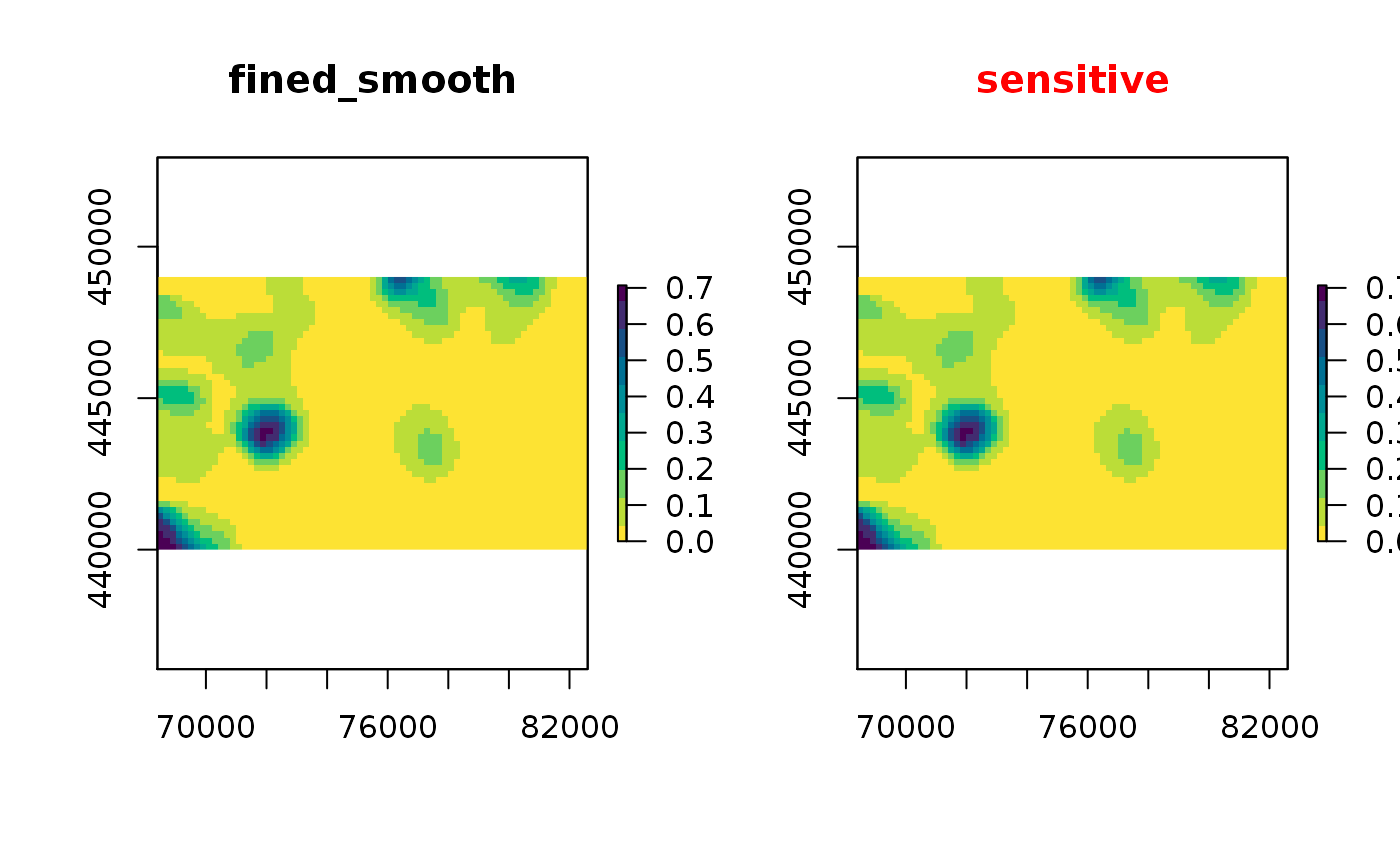
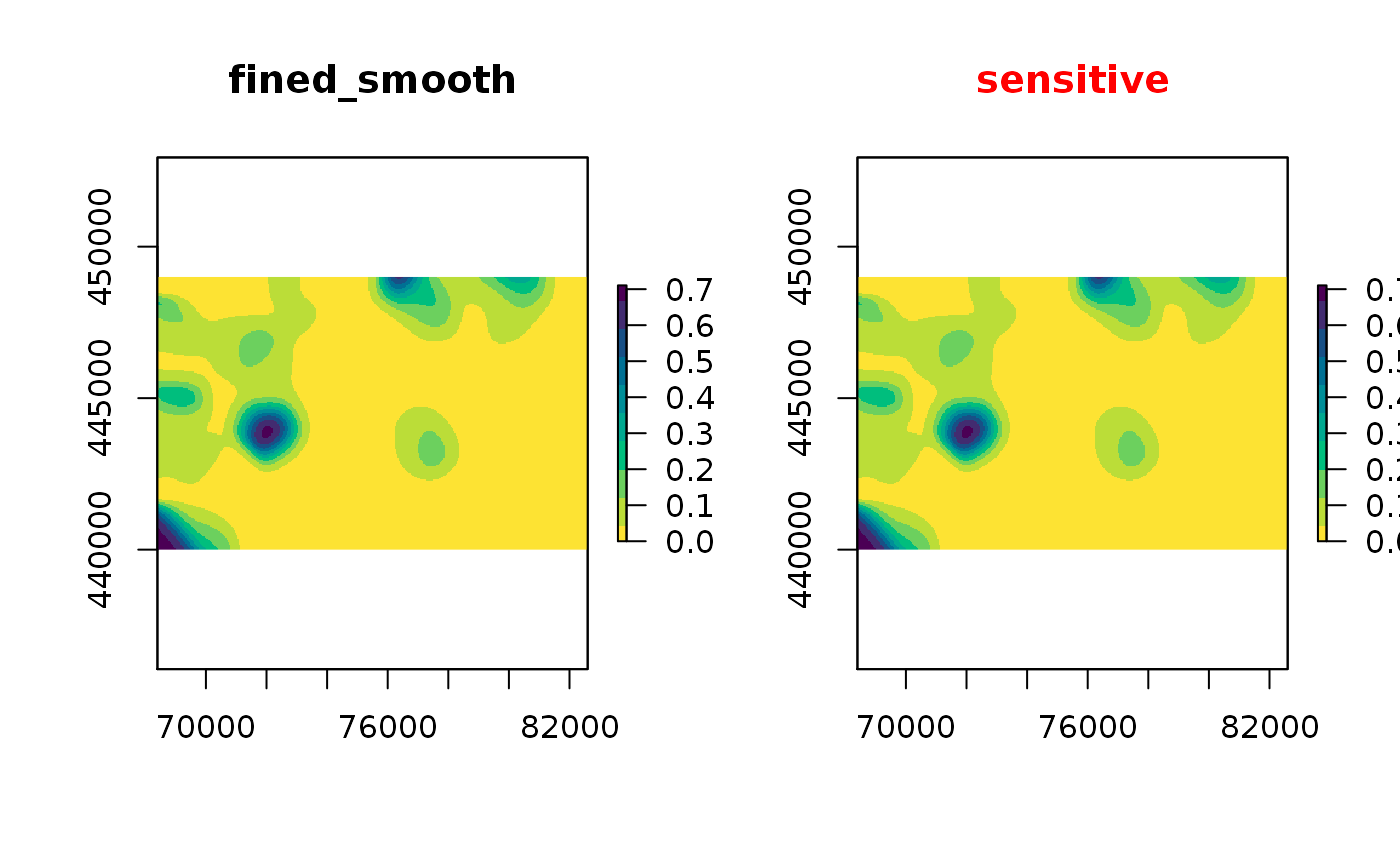
Built site for sdcSpatial: 0.5.0.9000@978270f

diff --git a/articles/privacy_protecting_maps.html b/articles/privacy_protecting_maps.html
@@ -31,7 +31,7 @@
       </button>
       <span class="navbar-brand">
         <a class="navbar-link" href="../index.html">sdcSpatial</a>
-        <span class="version label label-default" data-toggle="tooltip" data-placement="bottom" title="Released version">0.2.0.9000</span>
+        <span class="version label label-default" data-toggle="tooltip" data-placement="bottom" title="Released version">0.5.0.9000</span>
       </span>
     </div>
 
@@ -204,7 +204,8 @@
 <span class="kw">production_smoothed</span> <span class="op">&lt;-</span> <span class="fu"><a href="../reference/protect_smooth.html">protect_smooth</a></span>(<span class="kw">production</span>, bw = <span class="fl">500</span>)
 <span class="fu"><a href="https://rdrr.io/pkg/raster/man/plot.html">plot</a></span>(<span class="kw">production_smoothed</span>)
 </pre></div>
-<p><img src="privacy_protecting_maps_files/figure-html/unnamed-chunk-10-1.png" width="100%"> In this case smoothing reduced the number of sensitive locations drastically! Let us remove the remaining sensitive cells</p>
+<p><img src="privacy_protecting_maps_files/figure-html/unnamed-chunk-10-1.png" width="100%"> In this case smoothing reduced the number of sensitive locations drastically!</p>
+<p>Let us remove the remaining sensitive cells</p>
 <div class="sourceCode" id="cb12"><pre class="downlit">
 <span class="kw">production_safe</span> <span class="op">&lt;-</span> <span class="fu"><a href="../reference/remove_sensitive.html">remove_sensitive</a></span>(<span class="kw">production_smoothed</span>)
 <span class="fu"><a href="../reference/sensitivity_score.html">sensitivity_score</a></span>(<span class="kw">production_safe</span>) <span class="co"># check, double check</span>
@@ -254,7 +255,7 @@
 <p>The method has the advantage of locally selecting the necessary resolution to suppress sensitive values, while the <code>protect_smooth</code> method uses a fixed bandwidth.</p>
 <p>The protection result is blocky in comparison with the smoothing method, but safer if you look at the sensitive cells in high fined areas.</p>
 <div class="sourceCode" id="cb18"><pre class="downlit">
-<span class="kw">fined_smooth</span> <span class="op">&lt;-</span> <span class="fu"><a href="../reference/protect_smooth.html">protect_smooth</a></span>(<span class="kw">fined</span>, bw = <span class="fl">500</span>)
+<span class="kw">fined_smooth</span> <span class="op">&lt;-</span> <span class="fu"><a href="../reference/protect_smooth.html">protect_smooth</a></span>(<span class="kw">fined</span>, bw = <span class="fl">500</span>, keep_resolution=<span class="fl">FALSE</span>)
 <span class="fu"><a href="https://rdrr.io/pkg/raster/man/plot.html">plot</a></span>(<span class="kw">fined_smooth</span>, col = <span class="kw">col</span>)
 </pre></div>
 <p><img src="privacy_protecting_maps_files/figure-html/unnamed-chunk-16-1.png" width="100%"></p>

diff --git a/reference/protect_smooth.html b/reference/protect_smooth.html
@@ -73,7 +73,7 @@ making the values less localized." />
       </button>
       <span class="navbar-brand">
         <a class="navbar-link" href="../index.html">sdcSpatial</a>
-        <span class="version label label-default" data-toggle="tooltip" data-placement="bottom" title="Released version">0.2.0.9000</span>
+        <span class="version label label-default" data-toggle="tooltip" data-placement="bottom" title="Released version">0.5.0.9000</span>
       </span>
     </div>
 
@@ -207,12 +207,12 @@ on Privacy in Statistical Databases (pp. 347-359). Springer, Cham.</p>
 <span class='fu'><a href='https://rdrr.io/pkg/raster/man/cellStats.html'>cellStats</a></span>(<span class='kw'>sensitive</span>, <span class='kw'>mean</span>)
 </div><div class='output co'>#&gt; [1] 0.6328234</div><div class='input'>
 <span class='co'># let's smooth to reduce the sensitivity</span>
-<span class='kw'>smoothed</span> <span class='op'>&lt;-</span> <span class='fu'>protect_smooth</span>(<span class='kw'>production</span>, bw = <span class='fl'>400</span>)
+<span class='kw'>smoothed</span> <span class='op'>&lt;-</span> <span class='fu'>protect_smooth</span>(<span class='kw'>production</span>, bw = <span class='fl'>400</span>, keep_resolution=<span class='fl'>FALSE</span>)
 <span class='fu'><a href='https://rdrr.io/pkg/raster/man/plot.html'>plot</a></span>(<span class='kw'>smoothed</span>)
 </div><div class='img'><img src='protect_smooth-3.png' alt='' width='700' height='433' /></div><div class='input'>
 <span class='co'># what is the sensitivy fraction?</span>
 <span class='fu'><a href='sensitivity_score.html'>sensitivity_score</a></span>(<span class='kw'>smoothed</span>)
-</div><div class='output co'>#&gt; [1] 0.006885759</div><div class='input'>
+</div><div class='output co'>#&gt; [1] 0.007962441</div><div class='input'>
 <span class='co'># let's remove the sensitive data.</span>
 <span class='kw'>smoothed_safe</span> <span class='op'>&lt;-</span> <span class='fu'><a href='remove_sensitive.html'>remove_sensitive</a></span>(<span class='kw'>smoothed</span>, min_count = <span class='fl'>3</span>)
 <span class='fu'><a href='https://rdrr.io/pkg/raster/man/plot.html'>plot</a></span>(<span class='kw'>smoothed_safe</span>)

diff --git a/reference/sdc_raster.html b/reference/sdc_raster.html
@@ -74,7 +74,7 @@ the sensitivity to privacy disclosure for each location." />
       </button>
       <span class="navbar-brand">
         <a class="navbar-link" href="../index.html">sdcSpatial</a>
-        <span class="version label label-default" data-toggle="tooltip" data-placement="bottom" title="Released version">0.2.0.9000</span>
+        <span class="version label label-default" data-toggle="tooltip" data-placement="bottom" title="Released version">0.5.0.9000</span>
       </span>
     </div>
 
@@ -193,10 +193,9 @@ observations is considered sensitived.</p></td>
     <h2 class="hasAnchor" id="value"><a class="anchor" href="#value"></a>Value</h2>
 
     <p>object of <code>class</code> "sdc_raster":</p><ul>
-<li><p><code>$value</code>: <code><a href='https://rdrr.io/pkg/raster/man/brick.html'>raster::brick()</a></code> object with differenct layers e.g. <code>count</code>, <code>sum</code>, <code>mean</code>.</p></li>
+<li><p><code>$value</code>: <code><a href='https://rdrr.io/pkg/raster/man/brick.html'>raster::brick()</a></code> object with different layers e.g. <code>count</code>, <code>sum</code>, <code>mean</code>, <code>scale</code>.</p></li>
 <li><p><code>$max_risk</code>: see above.</p></li>
-<li><p><code>$min_count</code>: see above.</p></li>
-<li><p><code>$scale</code>: used together with <code>min_count</code> to determine sensitivity: result
+<li><p><code>$min_count</code>: see above.
 of protection operation <code><a href='protect_smooth.html'>protect_smooth()</a></code> or <code><a href='protect_quadtree.html'>protect_quadtree()</a></code>.</p></li>
 <li><p><code>$type</code>: data type of <code>variable</code>, either <code>numeric</code> or <code>logical</code></p></li>
 <li><p><code>$risk_type</code>, "external", "internal" or "discrete" (see <code><a href='disclosure_risk.html'>disclosure_risk()</a></code>)</p></li>

diff --git a/reference/remove_sensitive.html b/reference/remove_sensitive.html
@@ -73,7 +73,7 @@ The sensitive cells, as found by is_sensitive() are set to NA." />
       </button>
       <span class="navbar-brand">
         <a class="navbar-link" href="../index.html">sdcSpatial</a>
-        <span class="version label label-default" data-toggle="tooltip" data-placement="bottom" title="Released version">0.2.0.9000</span>
+        <span class="version label label-default" data-toggle="tooltip" data-placement="bottom" title="Released version">0.5.0.9000</span>
       </span>
     </div>
 
@@ -196,15 +196,14 @@ experienced <code>raster</code> users as well as sdc users.</p>
 </div><div class='output co'>#&gt; logical sdc_raster object: 
 #&gt;    resolution: 200 200 ,  max_risk: 0.95 , min_count: 10 
 #&gt;    mean sensitivity score [0,1]:  0.4572576</div><div class='input'><span class='kw'>unemployed</span><span class='op'>$</span><span class='kw'>value</span>
-</div><div class='output co'>#&gt; class      : RasterBrick 
-#&gt; dimensions : 62, 61, 3782, 3  (nrow, ncol, ncell, nlayers)
+</div><div class='output co'>#&gt; class      : RasterStack 
+#&gt; dimensions : 62, 61, 3782, 4  (nrow, ncol, ncell, nlayers)
 #&gt; resolution : 200, 200  (x, y)
 #&gt; extent     : 149400, 161600, 457800, 470200  (xmin, xmax, ymin, ymax)
 #&gt; crs        : NA 
-#&gt; source     : memory
-#&gt; names      : sum, count, mean 
-#&gt; min values :   0,     1,    0 
-#&gt; max values : 195,   329,    1 
+#&gt; names      : sum, count, mean, scale 
+#&gt; min values :   0,     1,    0,     1 
+#&gt; max values : 195,   329,    1,     1 
 #&gt; </div></pre>
   </div>
   <div class="col-md-3 hidden-xs hidden-sm" id="pkgdown-sidebar">

diff --git a/news/index.html b/news/index.html
@@ -71,7 +71,7 @@
       </button>
       <span class="navbar-brand">
         <a class="navbar-link" href="../index.html">sdcSpatial</a>
-        <span class="version label label-default" data-toggle="tooltip" data-placement="bottom" title="Released version">0.2.0.9000</span>
+        <span class="version label label-default" data-toggle="tooltip" data-placement="bottom" title="Released version">0.5.0.9000</span>
       </span>
     </div>
 
@@ -126,6 +126,16 @@
       <small>Source: <a href='https://github.com/edwindj/sdcSpatial/blob/master/NEWS.md'><code>NEWS.md</code></a></small>
     </div>
 
+    <div id="version-0-5-0" class="section level1">
+<h1 class="page-header" data-toc-text="0.5.0">
+<a href="#version-0-5-0" class="anchor"></a>version 0.5.0<small> Unreleased </small>
+</h1>
+<ul>
+<li>Added a <code>protect_neighborhood</code> function</li>
+<li>Fixed a bug in <code>protect_smooth</code>, it now can return a higher resolution version <code>keep_resolution=FALSE</code>.</li>
+<li>internal improvements with $scale.</li>
+</ul>
+</div>
     <div id="sdcspatial-0-2-0-9000" class="section level1">
 <h1 class="page-header" data-toc-text="0.2.0.9000">
 <a href="#sdcspatial-0-2-0-9000" class="anchor"></a>sdcSpatial 0.2.0.9000<small> Unreleased </small>

diff --git a/reference/sdcSpatial-package.html b/reference/sdcSpatial-package.html
@@ -74,7 +74,7 @@ revealing values at certain locations." />
       </button>
       <span class="navbar-brand">
         <a class="navbar-link" href="../index.html">sdcSpatial</a>
-        <span class="version label label-default" data-toggle="tooltip" data-placement="bottom" title="Released version">0.2.0.9000</span>
+        <span class="version label label-default" data-toggle="tooltip" data-placement="bottom" title="Released version">0.5.0.9000</span>
       </span>
     </div>
 
@@ -198,6 +198,7 @@ a structure in quadtrees, NTTS 2017</p>
 </ul>
 
 <p>Other contributors:</p><ul>
+<li><p>Douwe Hut [contributor]</p></li>
 <li><p>Sapphire Han [contributor]</p></li>
 </ul>
 

diff --git a/reference/plot_sensitive.html b/reference/plot_sensitive.html
@@ -73,7 +73,7 @@ plotted in red. The sensitive cells are determined using is_sensitive." />
       </button>
       <span class="navbar-brand">
         <a class="navbar-link" href="../index.html">sdcSpatial</a>
-        <span class="version label label-default" data-toggle="tooltip" data-placement="bottom" title="Released version">0.2.0.9000</span>
+        <span class="version label label-default" data-toggle="tooltip" data-placement="bottom" title="Released version">0.5.0.9000</span>
       </span>
     </div>
 

diff --git a/reference/sensitivity_score.html b/reference/sensitivity_score.html
@@ -73,7 +73,7 @@ that are considered sensitive according to the used disclosure_risk" />
       </button>
       <span class="navbar-brand">
         <a class="navbar-link" href="../index.html">sdcSpatial</a>
-        <span class="version label label-default" data-toggle="tooltip" data-placement="bottom" title="Released version">0.2.0.9000</span>
+        <span class="version label label-default" data-toggle="tooltip" data-placement="bottom" title="Released version">0.5.0.9000</span>
       </span>
     </div>
 

diff --git a/reference/dwellings.html b/reference/dwellings.html
@@ -74,7 +74,7 @@ The locations are realistic, but the associated data is simulated." />
       </button>
       <span class="navbar-brand">
         <a class="navbar-link" href="../index.html">sdcSpatial</a>
-        <span class="version label label-default" data-toggle="tooltip" data-placement="bottom" title="Released version">0.2.0.9000</span>
+        <span class="version label label-default" data-toggle="tooltip" data-placement="bottom" title="Released version">0.5.0.9000</span>
       </span>
     </div>
 

diff --git a/reference/enterprises.html b/reference/enterprises.html
@@ -74,7 +74,7 @@ The locations are realistic, but the associated data is simulated." />
       </button>
       <span class="navbar-brand">
         <a class="navbar-link" href="../index.html">sdcSpatial</a>
-        <span class="version label label-default" data-toggle="tooltip" data-placement="bottom" title="Released version">0.2.0.9000</span>
+        <span class="version label label-default" data-toggle="tooltip" data-placement="bottom" title="Released version">0.5.0.9000</span>
       </span>
     </div>
 

diff --git a/reference/protect_quadtree.html b/reference/protect_quadtree.html
@@ -74,7 +74,7 @@ left or when the maximum zoom levels has been reached." />
       </button>
       <span class="navbar-brand">
         <a class="navbar-link" href="../index.html">sdcSpatial</a>
-        <span class="version label label-default" data-toggle="tooltip" data-placement="bottom" title="Released version">0.2.0.9000</span>
+        <span class="version label label-default" data-toggle="tooltip" data-placement="bottom" title="Released version">0.5.0.9000</span>
       </span>
     </div>
 

diff --git a/reference/is_sensitive_at.html b/reference/is_sensitive_at.html
@@ -74,7 +74,7 @@ was created with (see example)." />
       </button>
       <span class="navbar-brand">
         <a class="navbar-link" href="../index.html">sdcSpatial</a>
-        <span class="version label label-default" data-toggle="tooltip" data-placement="bottom" title="Released version">0.2.0.9000</span>
+        <span class="version label label-default" data-toggle="tooltip" data-placement="bottom" title="Released version">0.5.0.9000</span>
       </span>
     </div>
 
